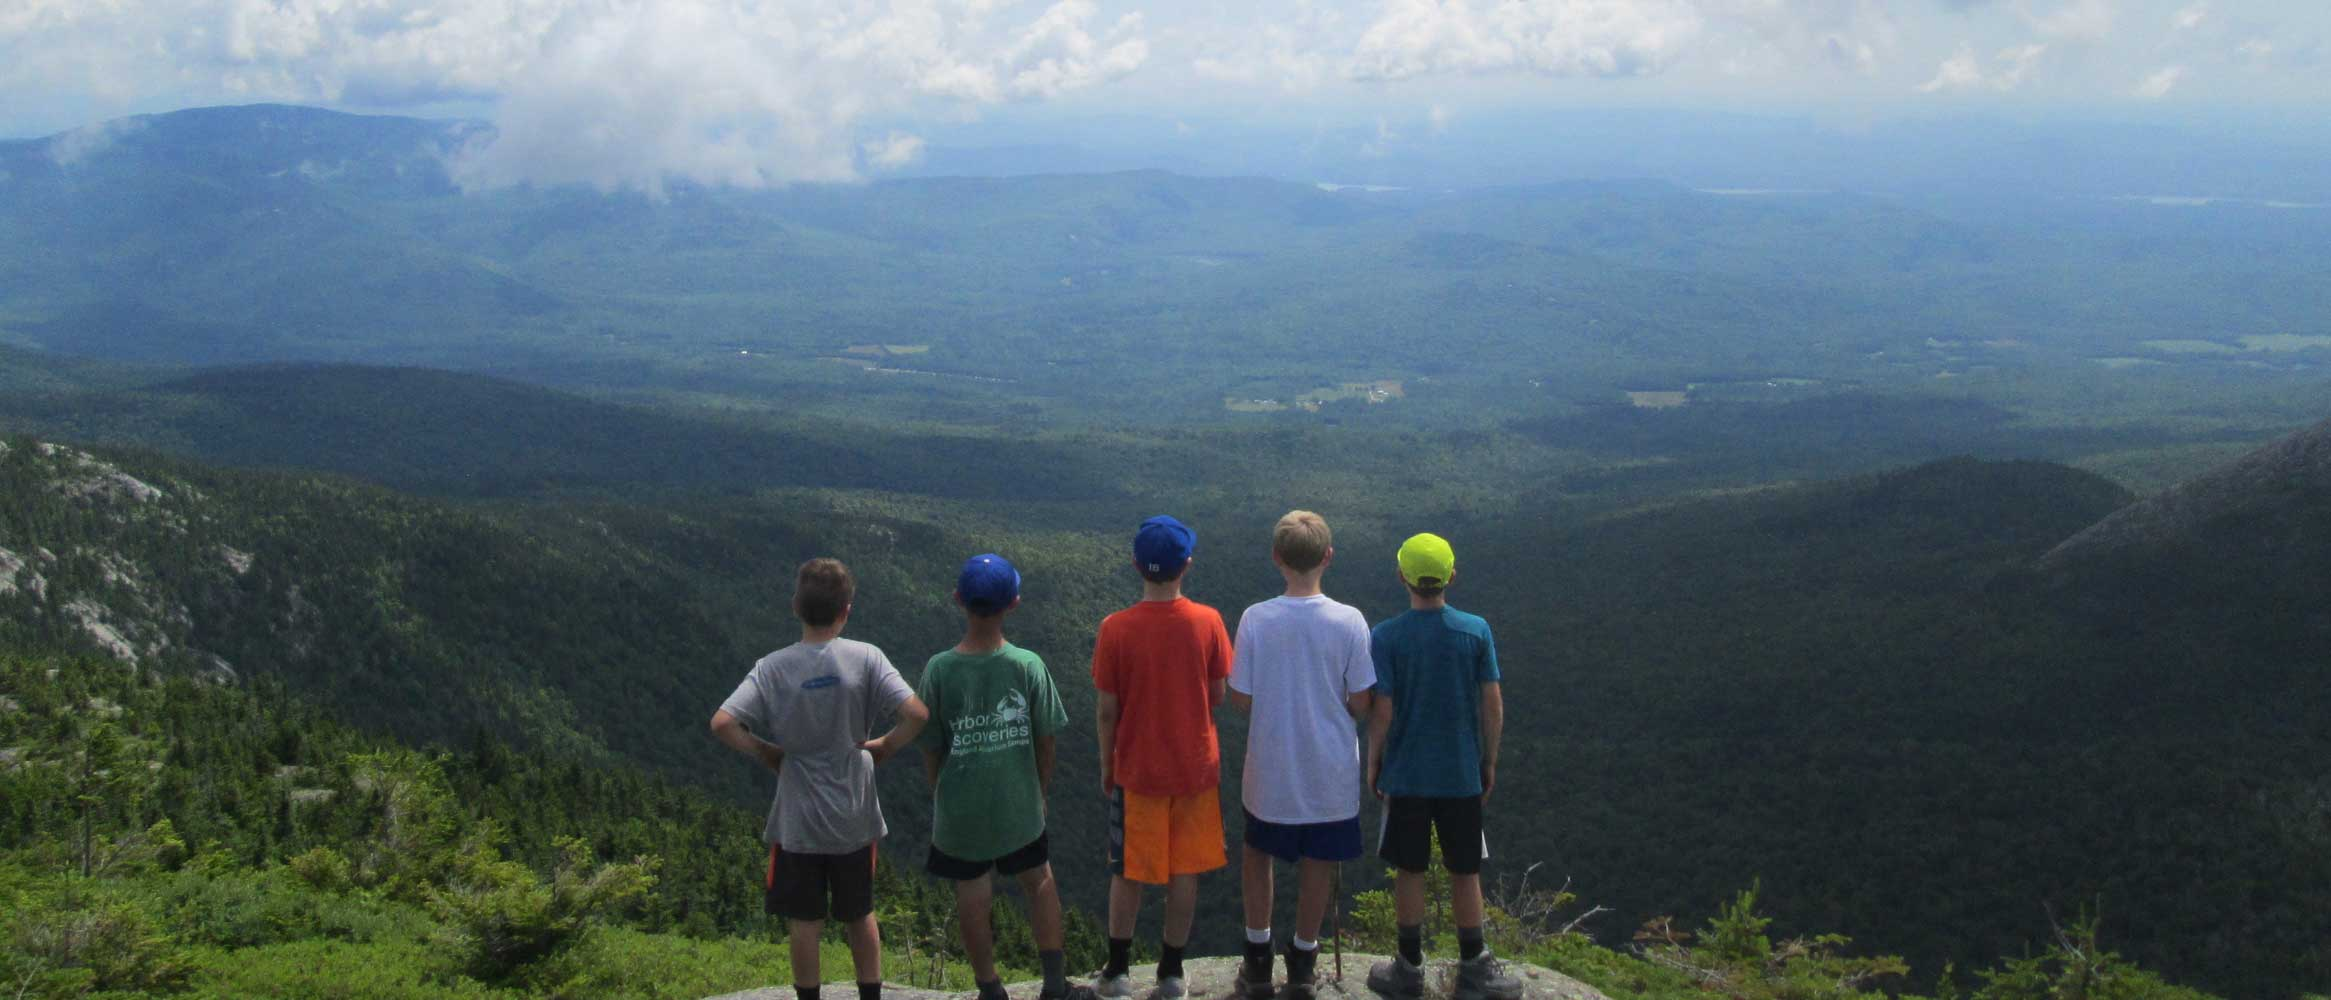
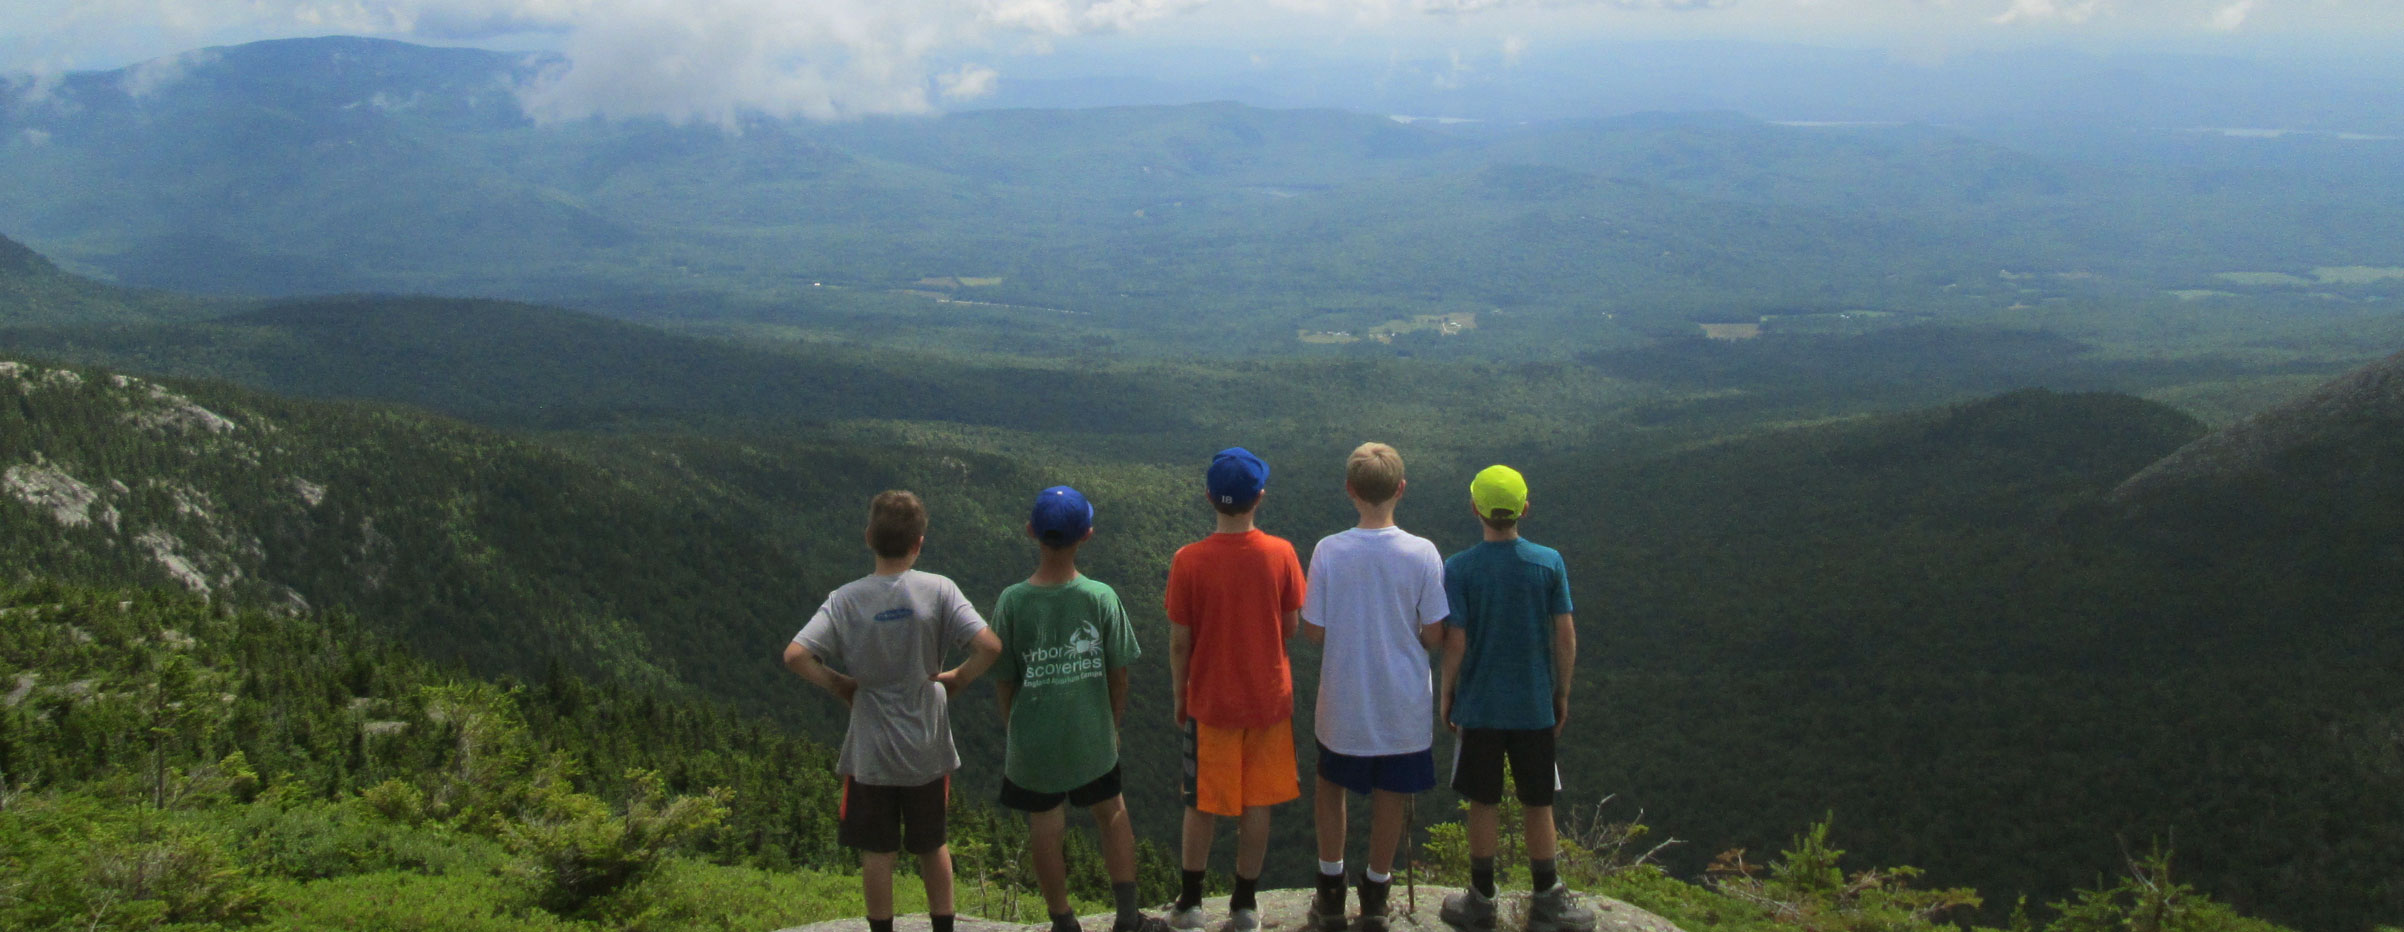
Fine-tuning positioning of hero image, play button, and tagline

diff --git a/source/stylesheets/hero.css.sass b/source/stylesheets/hero.css.sass
@@ -4,7 +4,7 @@
   position: relative
 
 .hero-container:after
-  padding-top: (1000 / 2331) * 100%
+  padding-top: (932 / 2404) * 100%
   display: block
   content: ''
 
@@ -14,7 +14,6 @@
   bottom: 0
   right: 0
   left: 0
-  background-color: deepskyblue
   background-image: url(../images/home/hero.jpg)
   background-size: 100% auto
   border-bottom: 1px solid black
@@ -22,9 +21,8 @@
 
   .play
     position: absolute
-    top: 50%
+    top: 30%
     left: 42.5%
-    margin-top: -100px
     width: 15%
     height: auto
     display: block
@@ -37,3 +35,4 @@
     color: white
     text-shadow: none
     font-size: 5em
+    line-height: 1.75em

diff --git a/source/stylesheets/custom.css.sass b/source/stylesheets/custom.css.sass
@@ -159,13 +159,6 @@ html
           color: #FFFFFF
           text-decoration: none
 
-  .tagline
-    margin: 10px 0 50px
-    color: #000F60
-    text-align: center
-    font-size: 38px
-    line-height: 45px
-
 .unselectable
   -webkit-touch-callout: none
   -webkit-user-select: none
